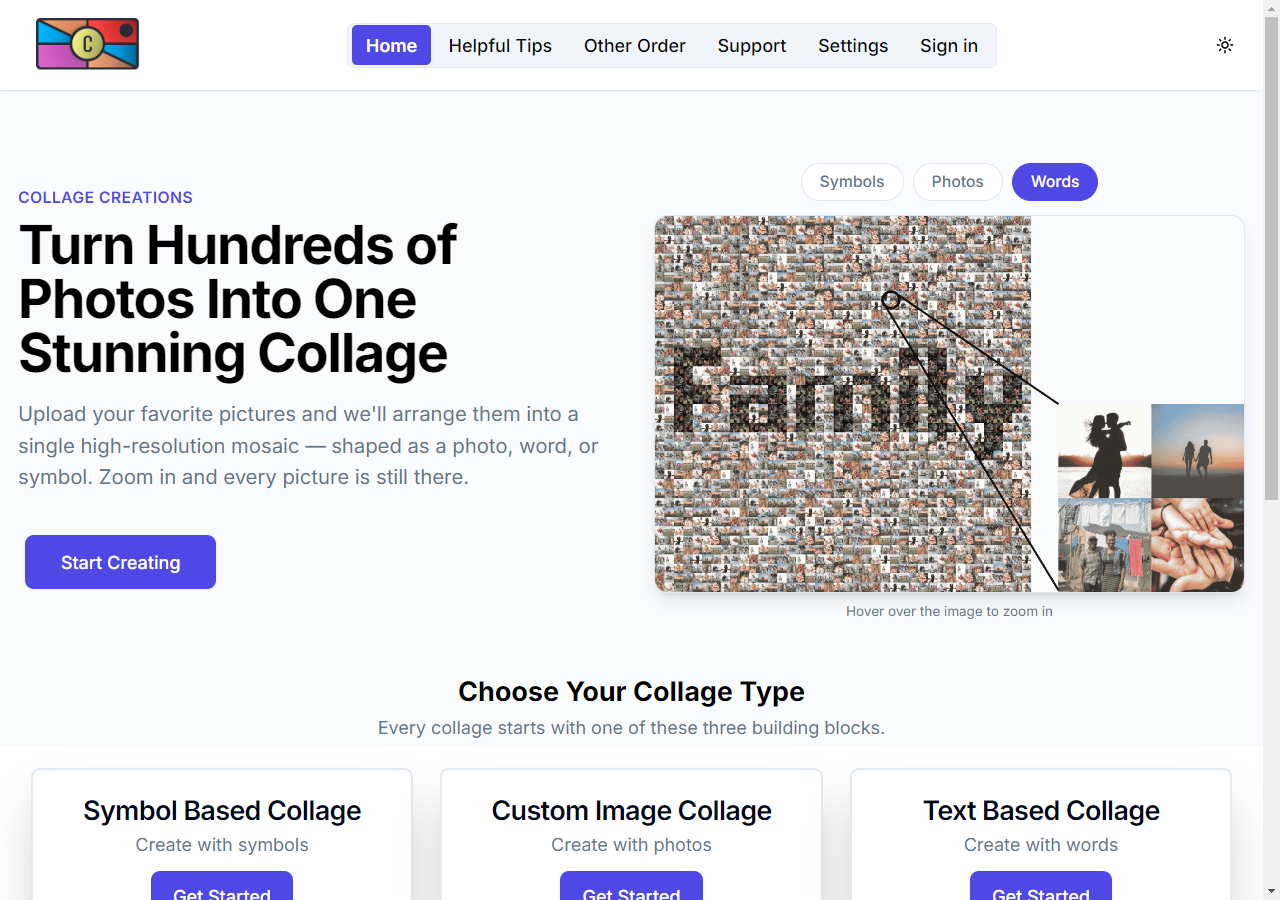
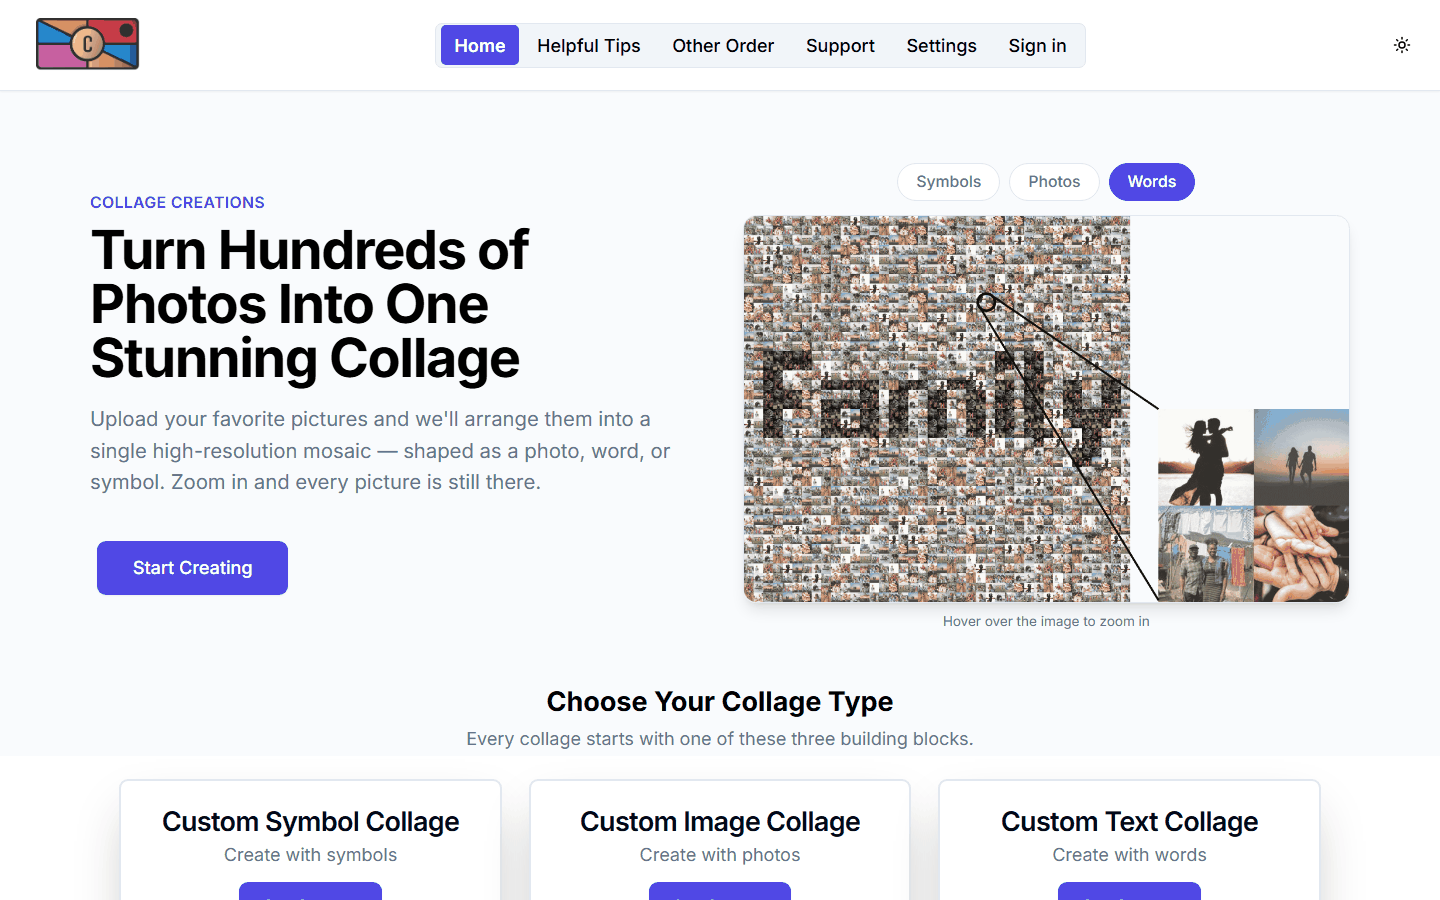
Use one name for the collage types and add a screenshot script
The home cards said Symbol Based / Custom Image / Text Based Collage, the order wizard said Custom Image / Text / Symbol Mosaic in a different order, and Settings called the app Mosaic Maker. All now say Custom <Type> Collage in the home-card order, and Settings uses Collage Creations. SEO meta tags are unchanged.

scripts/screenshots/capture.mjs (Playwright, own package.json) regenerates docs/screenshots from a local run; home.png is refreshed and palette-compressed (560 KB to 200 KB).

diff --git a/src/pages/Customer/collageCreationPage/steps/selectTypeStep/selectTypeStep.tsx b/src/pages/Customer/collageCreationPage/steps/selectTypeStep/selectTypeStep.tsx
@@ -33,6 +33,16 @@ export function SelectTypeStep({
 }: SelectTypeStepProps) {
   const collageOptions: CollageTypeOption[] = [
     {
+      title: "Symbol",
+      type: CollageCreationType.Symbol,
+      considerations: [
+        "Similar considerations as text collage",
+        "There are a limited number of symbols to choose from",
+        "You may request custom symbol if you do not like the options",
+      ],
+      image: symbolCollage,
+    },
+    {
       title: "Image",
       type: CollageCreationType.Image,
       considerations: [
@@ -53,16 +63,6 @@ export function SelectTypeStep({
       ],
       image: textCollage,
     },
-    {
-      title: "Symbol",
-      type: CollageCreationType.Symbol,
-      considerations: [
-        "Similar considerations as text collage",
-        "There are a limited number of symbols to choose from",
-        "You may request custom symbol if you do not like the options",
-      ],
-      image: symbolCollage,
-    },
   ];
 
   const clickedSelect = (type: CollageCreationType) => {
@@ -78,7 +78,7 @@ export function SelectTypeStep({
       {collageOptions.map((option) => (
         <Card className="w-full max-w-sm md:w-85" key={option.title}>
           <CardHeader>
-            <CardTitle>Custom {option.title} Mosaic</CardTitle>
+            <CardTitle>Custom {option.title} Collage</CardTitle>
           </CardHeader>
           <CardContent>
             <img

diff --git a/src/pages/Customer/settings/settings.tsx b/src/pages/Customer/settings/settings.tsx
@@ -20,7 +20,7 @@ function Settings(): React.ReactElement {
         <title>Settings | Collage Creations</title>
         <meta
           name="description"
-          content="Customize your Mosaic Maker experience. Adjust theme preferences and other settings."
+          content="Customize your Collage Creations experience. Adjust theme preferences and other settings."
         />
       </Helmet>
 
@@ -34,7 +34,7 @@ function Settings(): React.ReactElement {
               <CardHeader>
                 <CardTitle>Appearance</CardTitle>
                 <CardDescription>
-                  Customize how Mosaic Maker looks on your device.
+                  Customize how Collage Creations looks on your device.
                 </CardDescription>
               </CardHeader>
               <CardContent className="space-y-6">

diff --git a/src/pages/Customer/home/home.tsx b/src/pages/Customer/home/home.tsx
@@ -32,7 +32,7 @@ function Home() {
 
   const collageOptions: CollageOption[] = [
     {
-      title: "Symbol Based Collage",
+      title: "Custom Symbol Collage",
       heroLabel: "Symbols",
       description: "Create with symbols",
       type: CollageCreationType.Symbol,
@@ -57,7 +57,7 @@ function Home() {
       ],
     },
     {
-      title: "Text Based Collage",
+      title: "Custom Text Collage",
       heroLabel: "Words",
       description: "Create with words",
       type: CollageCreationType.Text,

diff --git a/README.md b/README.md
@@ -82,6 +82,19 @@ Settings are `VITE_*` variables read at build time and bundled into the page, so
 | `VITE_SENTRY_DSN` | Sentry project DSN (optional) |
 | `VITE_GOOGLE_CLIENT_ID`, `VITE_MICROSOFT_CLIENT_ID` | Customer sign-in (default to the production apps' public IDs) |
 
+### Regenerating the screenshots
+
+The images in `docs/screenshots/` come from a script, so a refresh is one command. Start the frontend and the backend (see above), then:
+
+```bash
+cd scripts/screenshots
+npm ci
+npx playwright install chromium
+npm run capture              # APP_URL=... to capture another server
+```
+
+It walks the home page and the symbol and text order flows at 1440x900 with no sign-in and no customer data, and overwrites the four files. `home.png` is also reduced to a 256-colour palette to keep it small. The script lives in its own `package.json` so the app does not depend on Playwright.
+
 ## Deployment
 
 Pushing to `main` runs `.github/workflows/deploy.yml`: install, type-check, build (with the three secrets `VITE_BACKEND_URL`, `VITE_STRIPE_KEY` and `VITE_SENTRY_DSN`), then publish `build/` to GitHub Pages under the custom domain `collagecreations.org`. `npm run deploy` does the same from a laptop with `gh-pages`.
